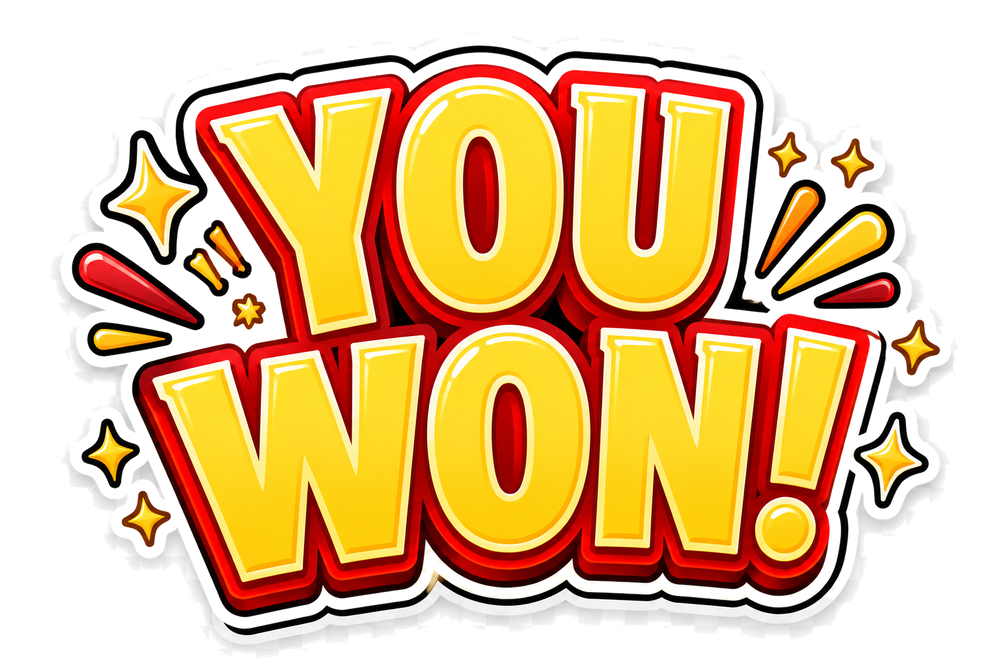
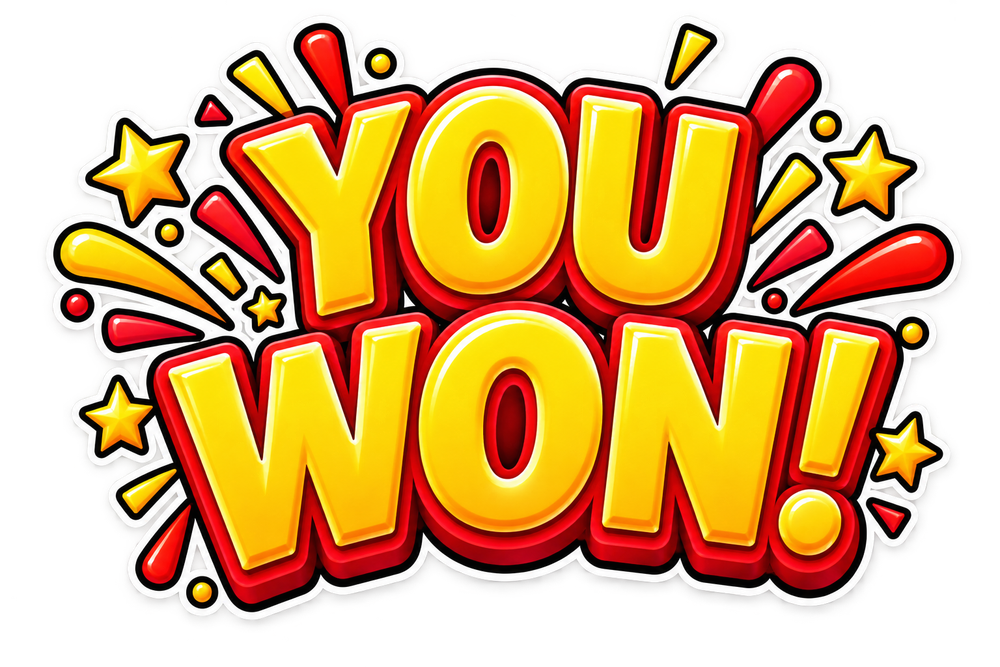
feat: cleaner YOU WON art, sticker thumbs on review, PL tap-to-spin
- Prize screen uses you won_transparent.png (clean edges, replaces flood-fill version)
- Review screen uses thumbs-up/down stickers split from how was it.png (replaces emoji)
- Polish 'tap to spin' -> 'Dotknij, aby zakręcić!'
- Verified full flow in EN + PL; all new images load

diff --git a/docs/index.html b/docs/index.html
@@ -13,7 +13,7 @@
   <link rel="preconnect" href="https://fonts.gstatic.com" crossorigin />
   <link href="https://fonts.googleapis.com/css2?family=Anton&family=Arima:wght@500;600&family=Poppins:wght@400;600;700&display=swap" rel="stylesheet" />
   <link rel="icon" href="assets/logo.png" />
-  <link rel="stylesheet" href="styles.css?v=6" />
+  <link rel="stylesheet" href="styles.css?v=7" />
 </head>
 <body data-bg="main">
   <canvas id="confetti"></canvas>
@@ -72,8 +72,8 @@
       <h2 data-i18n="how_was_it">How was it?</h2>
       <p class="sub" data-i18n="either_way">Your prize is yours either way 🌮</p>
       <div class="thumbs">
-        <button id="btn-up" class="thumb" aria-label="Good">👍</button>
-        <button id="btn-down" class="thumb" aria-label="Bad">👎</button>
+        <button id="btn-up" class="thumb" aria-label="Good"><img src="assets/thumb-up.png" alt="Good" /></button>
+        <button id="btn-down" class="thumb" aria-label="Bad"><img src="assets/thumb-down.png" alt="Bad" /></button>
       </div>
       <button id="btn-skip-review" class="link" data-i18n="skip">Skip</button>
     </section>
@@ -101,11 +101,11 @@
       <p class="sub" data-i18n="see_you">See you again at BON TACOS.</p>
     </section>
   </main>
-  <script src="wheel.js?v=6"></script>
-  <script src="confetti.js?v=6"></script>
-  <script src="sound.js?v=6"></script>
-  <script src="api.js?v=6"></script>
-  <script src="i18n.js?v=6"></script>
-  <script src="player.js?v=6"></script>
+  <script src="wheel.js?v=7"></script>
+  <script src="confetti.js?v=7"></script>
+  <script src="sound.js?v=7"></script>
+  <script src="api.js?v=7"></script>
+  <script src="i18n.js?v=7"></script>
+  <script src="player.js?v=7"></script>
 </body>
 </html>

diff --git a/public/index.html b/public/index.html
@@ -13,7 +13,7 @@
   <link rel="preconnect" href="https://fonts.gstatic.com" crossorigin />
   <link href="https://fonts.googleapis.com/css2?family=Anton&family=Arima:wght@500;600&family=Poppins:wght@400;600;700&display=swap" rel="stylesheet" />
   <link rel="icon" href="assets/logo.png" />
-  <link rel="stylesheet" href="styles.css?v=6" />
+  <link rel="stylesheet" href="styles.css?v=7" />
 </head>
 <body data-bg="main">
   <canvas id="confetti"></canvas>
@@ -72,8 +72,8 @@
       <h2 data-i18n="how_was_it">How was it?</h2>
       <p class="sub" data-i18n="either_way">Your prize is yours either way 🌮</p>
       <div class="thumbs">
-        <button id="btn-up" class="thumb" aria-label="Good">👍</button>
-        <button id="btn-down" class="thumb" aria-label="Bad">👎</button>
+        <button id="btn-up" class="thumb" aria-label="Good"><img src="assets/thumb-up.png" alt="Good" /></button>
+        <button id="btn-down" class="thumb" aria-label="Bad"><img src="assets/thumb-down.png" alt="Bad" /></button>
       </div>
       <button id="btn-skip-review" class="link" data-i18n="skip">Skip</button>
     </section>
@@ -101,11 +101,11 @@
       <p class="sub" data-i18n="see_you">See you again at BON TACOS.</p>
     </section>
   </main>
-  <script src="wheel.js?v=6"></script>
-  <script src="confetti.js?v=6"></script>
-  <script src="sound.js?v=6"></script>
-  <script src="api.js?v=6"></script>
-  <script src="i18n.js?v=6"></script>
-  <script src="player.js?v=6"></script>
+  <script src="wheel.js?v=7"></script>
+  <script src="confetti.js?v=7"></script>
+  <script src="sound.js?v=7"></script>
+  <script src="api.js?v=7"></script>
+  <script src="i18n.js?v=7"></script>
+  <script src="player.js?v=7"></script>
 </body>
 </html>

diff --git a/docs/styles.css b/docs/styles.css
@@ -98,11 +98,13 @@ button.link{background:none; border:0; color:var(--muted); margin-top:2px; curso
 .countdown{font-size:clamp(1rem,4.4vw,1.2rem); color:var(--gold); font-weight:700; text-shadow:0 2px 8px rgba(0,0,0,.8)}
 .countdown.expired{color:#ff9d9d}
 
-.thumbs{display:flex; gap:18px; justify-content:center; margin:10px 0}
-.thumb{font-size:clamp(2.4rem,12vw,3.4rem); background:rgba(36,29,24,.75); border:2px solid var(--line); border-radius:20px; padding:14px 26px; cursor:pointer; transition:transform .08s, border-color .2s}
-.thumb:active{transform:scale(.94)}
-#btn-up:hover{border-color:var(--gold)}
-#btn-down:hover{border-color:var(--red)}
+.thumbs{display:flex; gap:16px; justify-content:center; margin:10px 0}
+.thumb{background:rgba(36,29,24,.5); border:2px solid var(--line); border-radius:22px; padding:12px 16px; cursor:pointer; transition:transform .08s, border-color .2s, background .2s}
+.thumb img{width:clamp(74px,22vw,108px); height:auto; display:block; filter:drop-shadow(0 6px 12px rgba(0,0,0,.5))}
+.thumb:active{transform:scale(.93)}
+#btn-up:hover{border-color:var(--gold); background:rgba(249,190,30,.12)}
+#btn-down:hover{border-color:var(--red); background:rgba(237,28,36,.12)}
+body.kiosk .thumb img{width:min(18vh,150px)}
 
 #confetti{position:fixed; inset:0; pointer-events:none; z-index:50; display:none}
 

diff --git a/public/styles.css b/public/styles.css
@@ -98,11 +98,13 @@ button.link{background:none; border:0; color:var(--muted); margin-top:2px; curso
 .countdown{font-size:clamp(1rem,4.4vw,1.2rem); color:var(--gold); font-weight:700; text-shadow:0 2px 8px rgba(0,0,0,.8)}
 .countdown.expired{color:#ff9d9d}
 
-.thumbs{display:flex; gap:18px; justify-content:center; margin:10px 0}
-.thumb{font-size:clamp(2.4rem,12vw,3.4rem); background:rgba(36,29,24,.75); border:2px solid var(--line); border-radius:20px; padding:14px 26px; cursor:pointer; transition:transform .08s, border-color .2s}
-.thumb:active{transform:scale(.94)}
-#btn-up:hover{border-color:var(--gold)}
-#btn-down:hover{border-color:var(--red)}
+.thumbs{display:flex; gap:16px; justify-content:center; margin:10px 0}
+.thumb{background:rgba(36,29,24,.5); border:2px solid var(--line); border-radius:22px; padding:12px 16px; cursor:pointer; transition:transform .08s, border-color .2s, background .2s}
+.thumb img{width:clamp(74px,22vw,108px); height:auto; display:block; filter:drop-shadow(0 6px 12px rgba(0,0,0,.5))}
+.thumb:active{transform:scale(.93)}
+#btn-up:hover{border-color:var(--gold); background:rgba(249,190,30,.12)}
+#btn-down:hover{border-color:var(--red); background:rgba(237,28,36,.12)}
+body.kiosk .thumb img{width:min(18vh,150px)}
 
 #confetti{position:fixed; inset:0; pointer-events:none; z-index:50; display:none}
 

diff --git a/docs/i18n.js b/docs/i18n.js
@@ -36,7 +36,7 @@
       code_err: 'Ten kod jest błędny — zapytaj obsługę.',
       demo_hint: 'Tryb demo — kod wpisany, kliknij Odblokuj.',
       unlock: 'Odblokuj',
-      tap_spin: 'Kliknij, aby zakręcić!',
+      tap_spin: 'Dotknij, aby zakręcić!',
       spin: 'ZAKRĘĆ',
       spinning: 'KRĘCI SIĘ…',
       show_server: 'Pokaż obsłudze zanim wygaśnie:',

diff --git a/public/i18n.js b/public/i18n.js
@@ -36,7 +36,7 @@
       code_err: 'Ten kod jest błędny — zapytaj obsługę.',
       demo_hint: 'Tryb demo — kod wpisany, kliknij Odblokuj.',
       unlock: 'Odblokuj',
-      tap_spin: 'Kliknij, aby zakręcić!',
+      tap_spin: 'Dotknij, aby zakręcić!',
       spin: 'ZAKRĘĆ',
       spinning: 'KRĘCI SIĘ…',
       show_server: 'Pokaż obsłudze zanim wygaśnie:',
